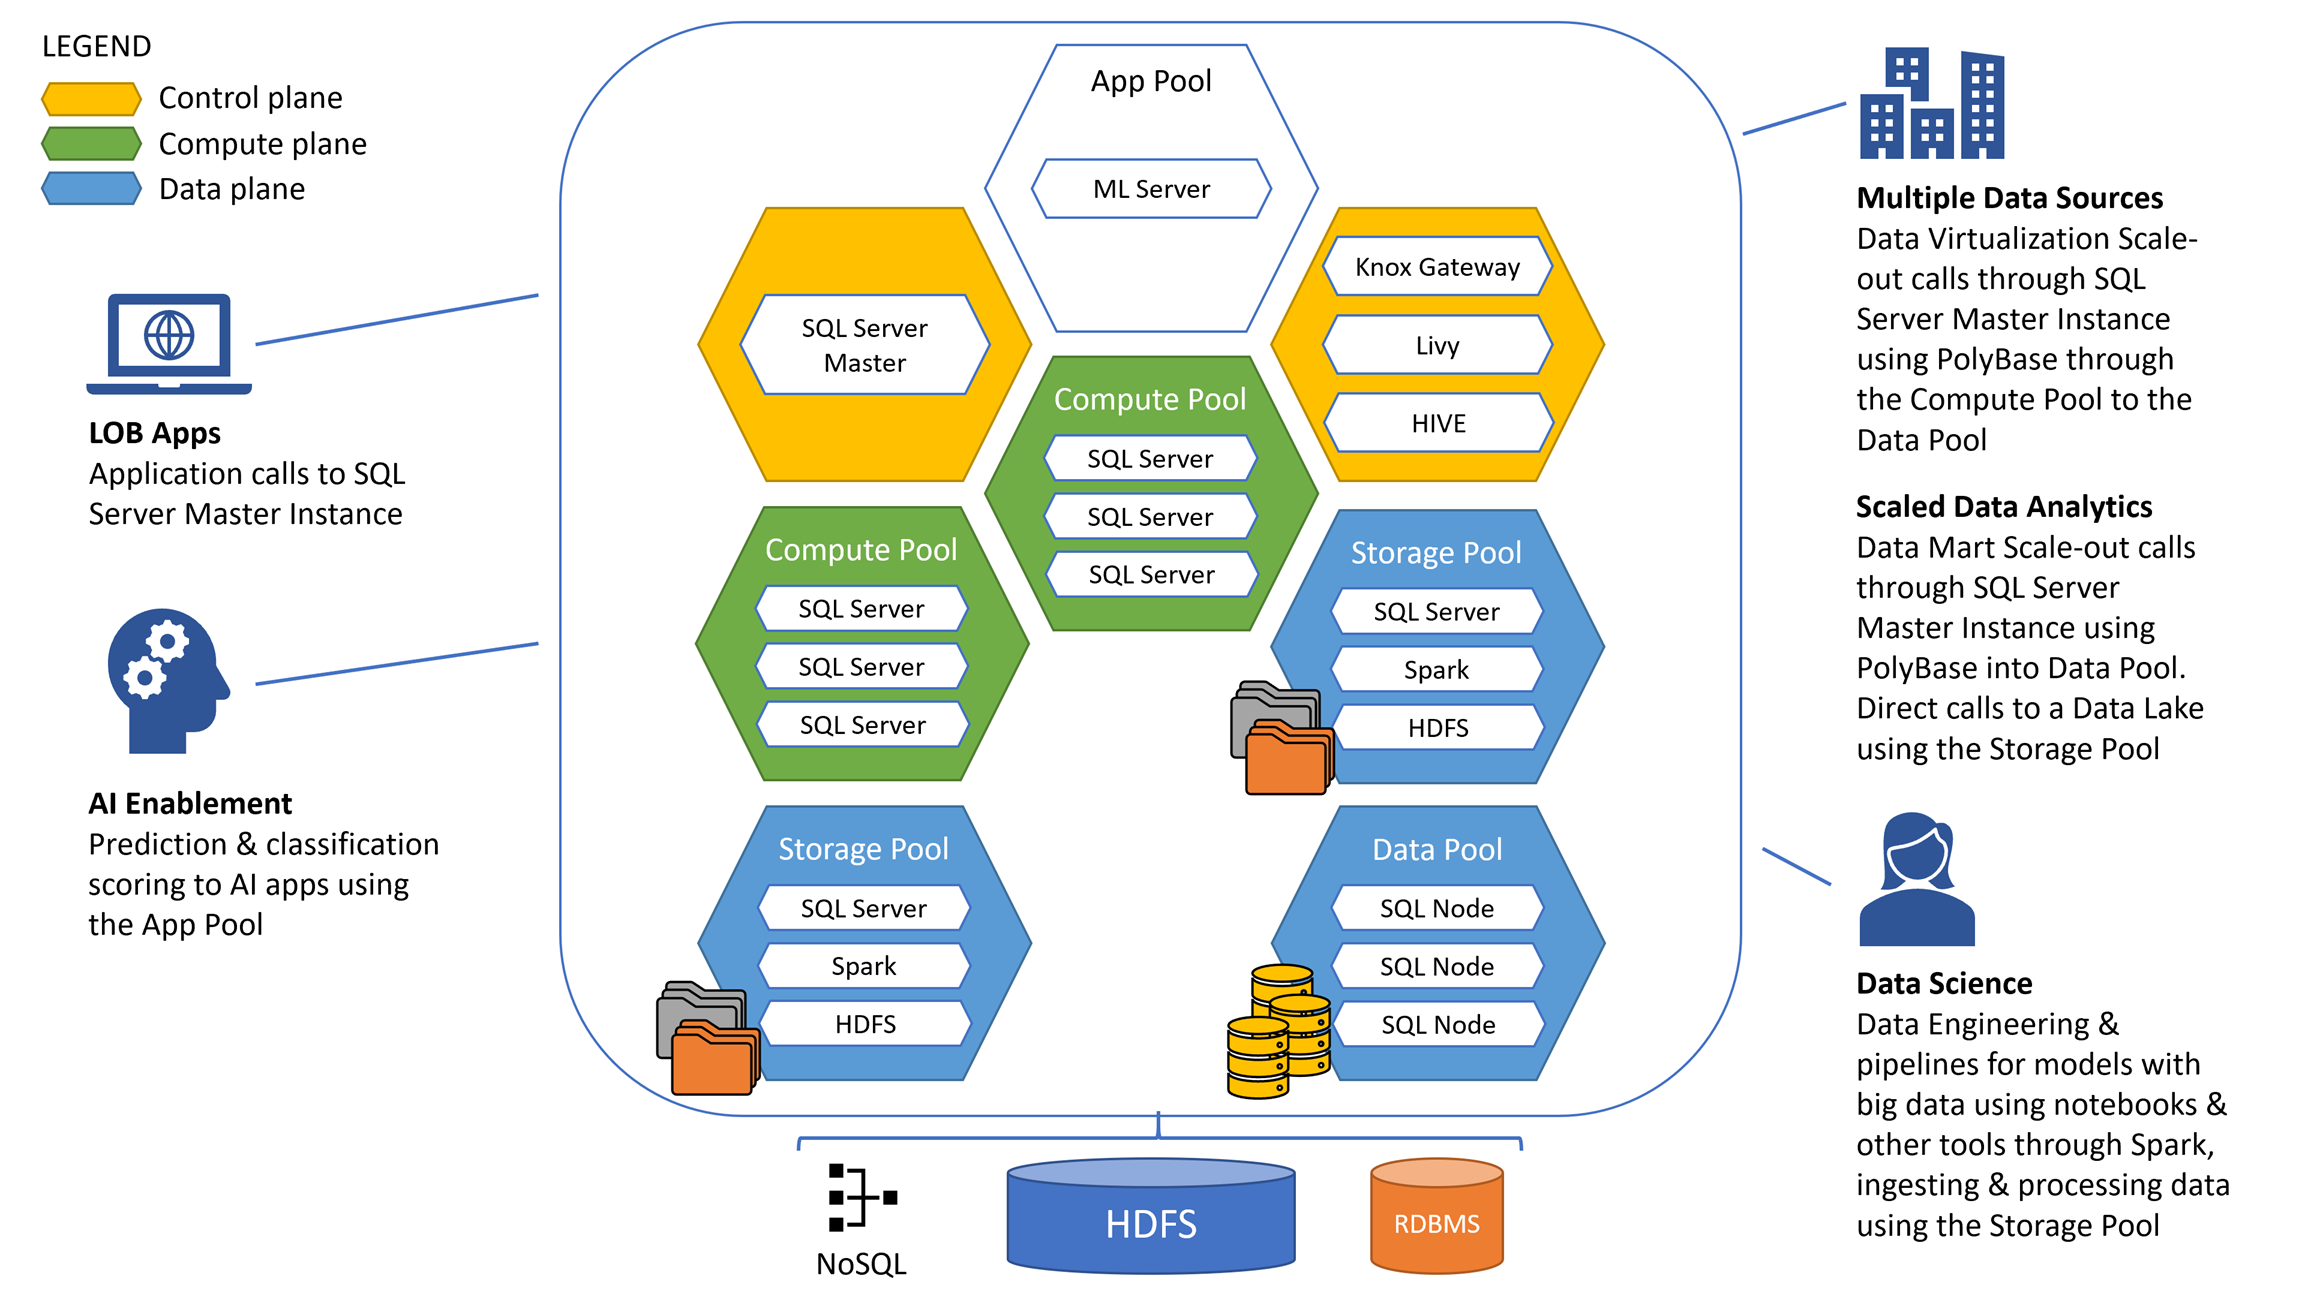
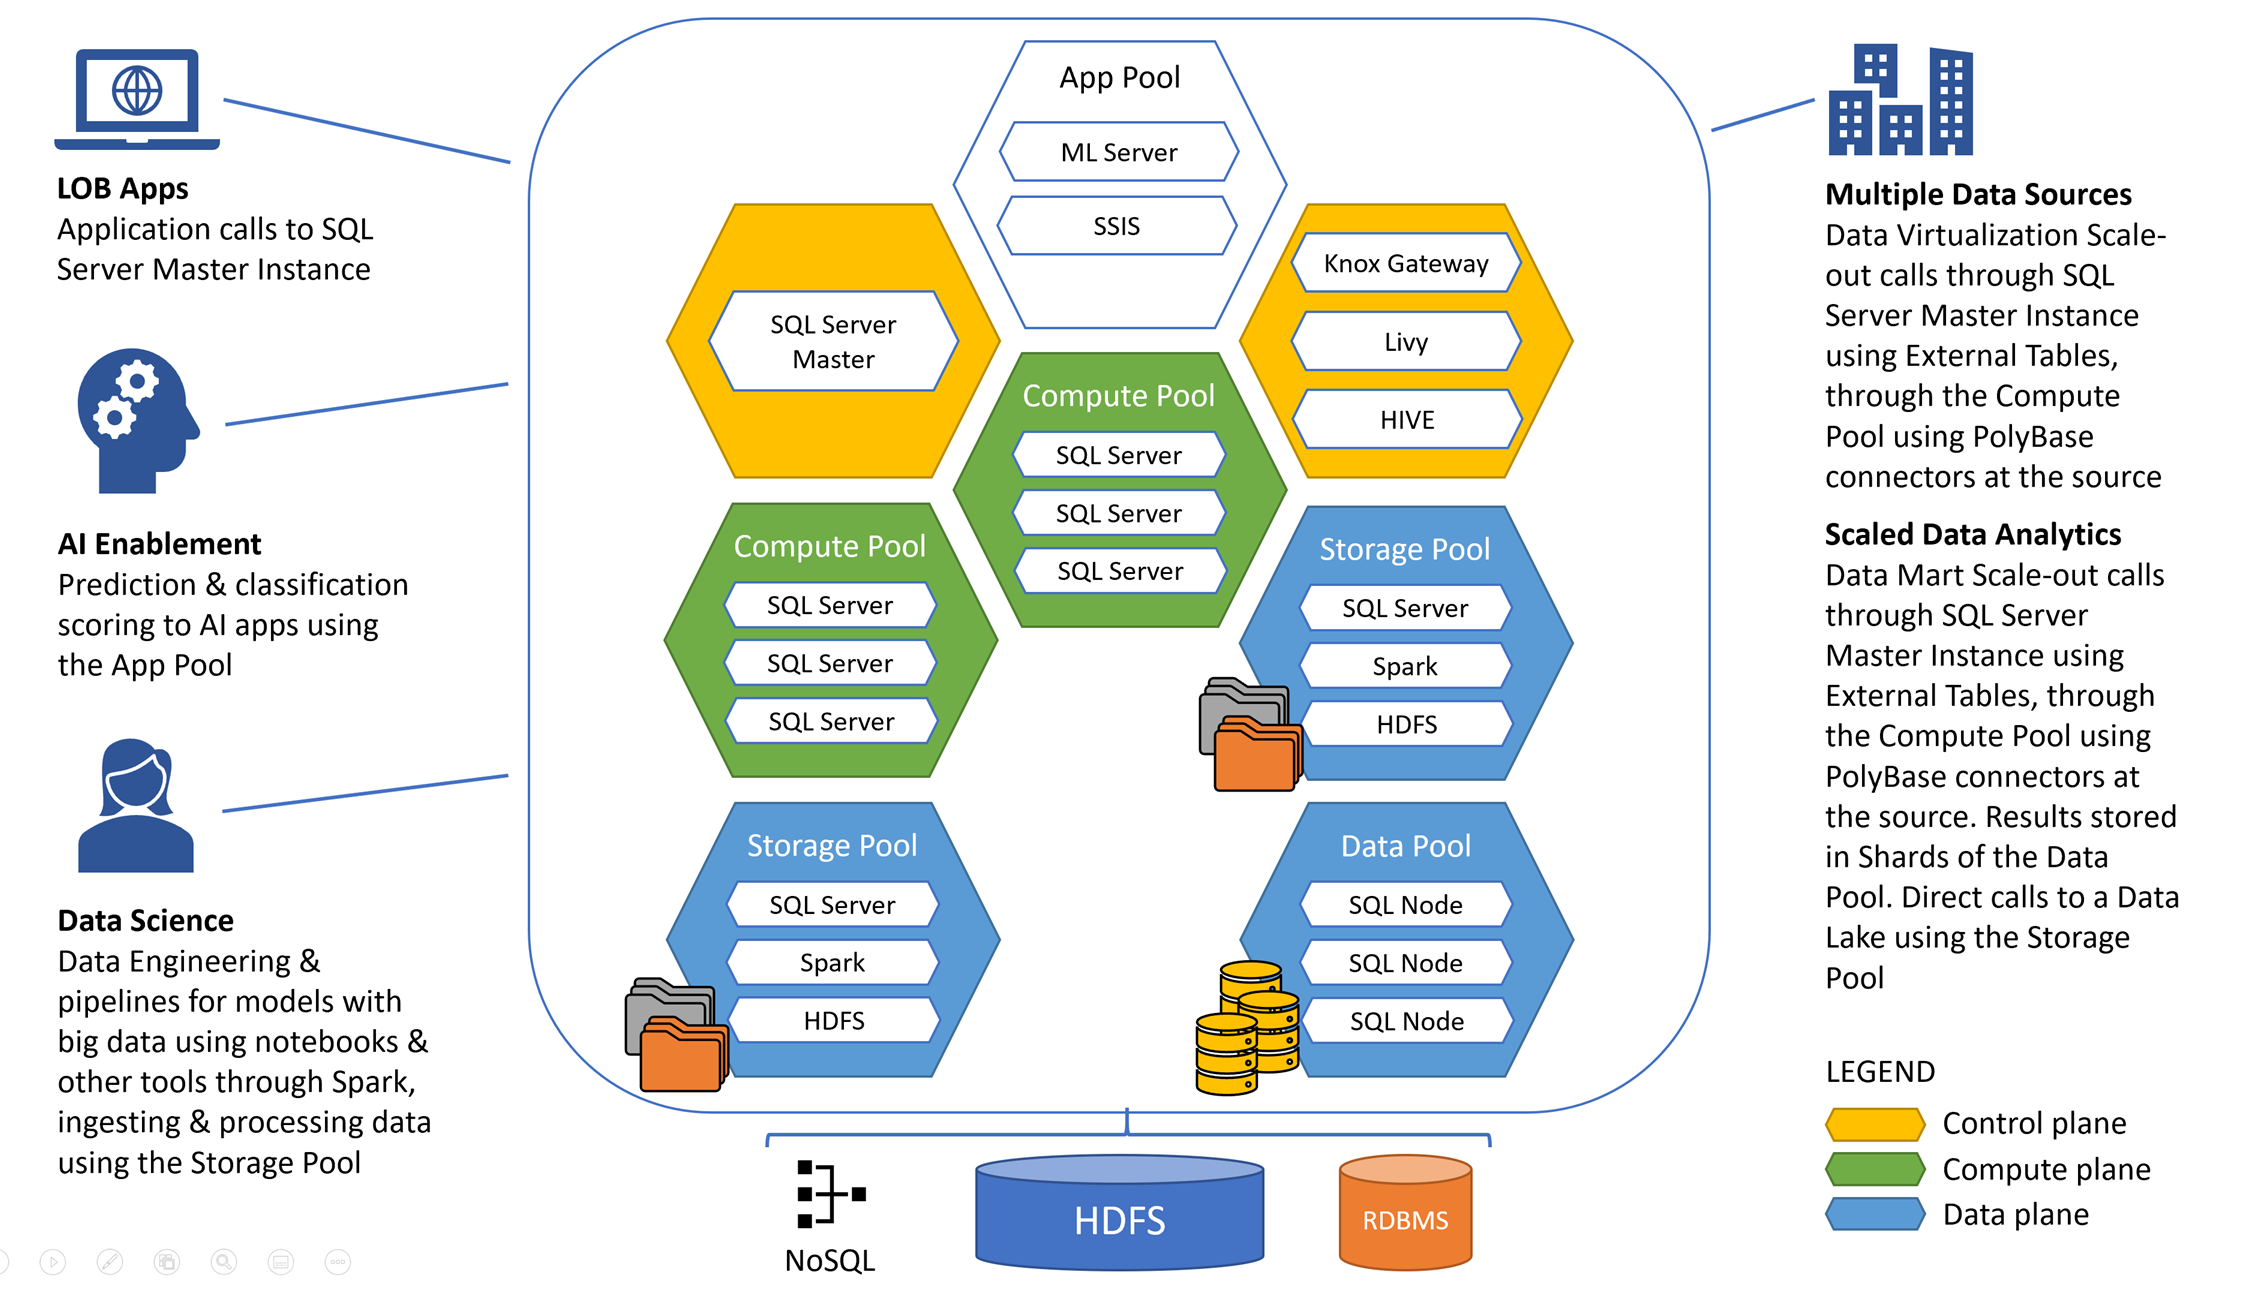
Added additional questions and fleshed out information in WDS

diff --git a/Whiteboard design session/WDS trainer guide - Modernizing data analytics with SQL Server 2019.md b/Whiteboard design session/WDS trainer guide - Modernizing data analytics with SQL Server 2019.md
@@ -220,7 +220,7 @@ As they added new e-commerce channels to expand the customer base, consumer dema
 
 ![The expansion to omni-channel causes issues.](media/omni-channel.png 'Omni-channel causes issues like siloed insights')
 
-WWI has considered using a traditional data warehouse to join data from their disparate systems to gain insights in one location. Their biggest concerns with this approach are the amount of time to put such a system in place and properly maintain it, but even more so, having an inherent delay between when new data is written to the source system and when that data is moved into the data warehouse. They would like to have access to data from all systems while it is fresh, but do so in a way that is highly scalable and able to support complex joins between the external sources and internal SQL server tables as well.
+WWI has considered using a traditional data warehouse to join data from their disparate systems to gain insights in one location. Their biggest concerns with this approach are the amount of time to put such a system in place and properly maintain it, but even more so, having an inherent delay between when new data is written to the source system and when that data is moved into the data warehouse. They would like to have access to data from all systems while it is fresh, but do so in a way that is highly scalable and able to support complex joins between the external sources and internal SQL server tables as well. They also want to be able to use their existing codebase while enabling a flexible scale-out architecture.
 
 However, there are times when they would like to move data into storage to provide denormalized and aggregated representations of their data for reporting purposes. In other terms, a data mart. However, they would like to also take advantage of distributed storage of this data, which would include sharding the data across multiple databases. They are concerned about the level of effort to shard their data, access that data, and maintain the distributed system.
 
@@ -296,6 +296,8 @@ _Modern data warehouse_
 
 4. What methods can be used to ensure the best performance when querying data?
 
+5. How will the data systems scale to reach more consumers? Can this be done while minimizing code changes?
+
 _Deep analytics and AI_
 
 1. What would be used to solve the AI requirements?
@@ -357,10 +359,15 @@ Directions: Tables reconvene with the larger group to hear the facilitator/SME s
 | **Description**                         |                                                                 **Links**                                                                 |
 | What are SQL Server big data clusters?  |             <https://docs.microsoft.com/en-us/sql/big-data-cluster/big-data-cluster-overview?view=sqlallproducts-allversions>             |
 | How to use notebooks in SQL Server 2019 |                     <https://docs.microsoft.com/en-us/sql/big-data-cluster/notebooks-guidance?view=sql-server-ver15>                      |
+| SQL Server 2019 Master Instance         |              <https://docs.microsoft.com/en-us/sql/big-data-cluster/concept-master-instance?view=sqlallproducts-allversions>              |
+| SQL Server extensibility framework      |                             <https://docs.microsoft.com/en-us/sql/advanced-analytics/?view=sql-server-ver15>                              |
+| PolyBase                                |                 <https://docs.microsoft.com/en-us/sql/relational-databases/polybase/polybase-guide?view=sql-server-ver15>                 |
 | Dynamic Data Masking                    |                         <https://docs.microsoft.com/en-us/sql/relational-databases/security/dynamic-data-masking>                         |
 | Row-Level Security                      |                          <https://docs.microsoft.com/en-us/sql/relational-databases/security/row-level-security>                          |
 | Always Encrypted with Secure Enclaves   | <https://docs.microsoft.com/en-us/sql/relational-databases/security/encryption/always-encrypted-enclaves?view=sqlallproducts-allversions> |
 | SQL Data Discovery and Classification   |     <https://docs.microsoft.com/en-us/sql/relational-databases/security/sql-data-discovery-and-classification?view=sql-server-ver15>      |
+| Hadoop File System (HDFS)               |                                        <https://kubernetes.io/docs/concepts/overview/components/>                                         |
+| Apache Spark                            |                                                        <https://spark.apache.org/>                                                        |
 
 # Modernizing data analytics with SQL Server 2019 whiteboard design session trainer guide
 
@@ -406,17 +413,19 @@ Directions: Tables reconvene with the larger group to hear the facilitator/SME s
 
 ## Preferred target audience
 
-\[insert your custom workshop content here . . . \]
+Charlene Mathis, Chief Information Officer (CIO), Wide World Importers
+
+The primary audience is the business decision makers and technology decision makers. From the case study scenario, this includes Charlene Mathis, CIO for Wide World Importers. Usually, we talk to the database administrators and infrastructure managers who report to the chief information officers (CIOs). We also speak with application sponsors (like a vice president [VP] line of business [LOB], or chief marketing officer [CMO]), or to those who represent the business unit IT or developers that report to application sponsors.
 
 ## Preferred solution
-
-\[insert your custom workshop content here . . . \]
 
 _High-level architecture_
 
 1. Diagram your initial vision for the architecture of the solution.
 
    ![Preferred solution.](../Media/preferred-solution.png 'Preferred solution diagram')
+
+   In SQL Server big data clusters, Kubernetes is responsible for the state of the SQL Server big data clusters; Kubernetes builds and configures the cluster nodes, assigns pods to nodes, and monitors the health of the cluster.
 
    SQL Server big data clusters architecture
 
@@ -438,25 +447,62 @@ _Modern data warehouse_
 
    The image to the left represents traditional data movement using ETL. Compare that to data virtualization, which does not require data movement and provides a unified layer over top of existing data sources.
 
-   **SQL Server 2019 Data Lake**
+   **SQL Server Master Instance**
 
-   SQL Server 2019 Big Data Clusters include a scalable HDFS storage pool. This pool can be used to store big data, potentially ingested from multiple external sources. This data can be either structured or unstructured data. once the big data is stored in HDFS in the big data cluster, you can analyze and query the data and combine it with your relational data.
+   The SQL Server Master Instance is an installation of SQL Server 2019 in a Pod on a Node in the Kubernetes cluster. This instance behaves the same as a single server instance installed on traditional physical hardware or in a Virtual Machine. You access it in the same way and use it for high-value, OLTP, OLAP and other types of workloads, and it contains all of the standard SQL Server system databases.
+
+   The SQL Server Master Instance is part of the control plane of the big data cluster, and as such, performs duties unique to the cluster. This includes storing metadata about the PolyBase external data sources and external tables defined in user databases when using data virtualization. In addition, the SQL master instance stores a data plane shard map, HDFS table metadata, and details of external tables that provide access to the cluster data plane.
+
+   **SQL Server 2019 Data Lake (Storage Pool)**
+
+   SQL Server 2019 Big Data Clusters include a storage pool that consists of storage nodes comprised of SQL Server on Linux, Spark, and HDFS. All the storage nodes in a SQL big data cluster are members of a scalable HDFS cluster. These components of the storage pool can be combined to create a data lake to store big data, potentially ingested from multiple, disparate external sources. This data can be either structured or unstructured data. Once the big data is stored in HDFS in the big data cluster, you can analyze and query the data and combine it with your relational data.
+
+   HDFS also provides data persistency, as HDFS data is spread across all the storage nodes in the SQL big data cluster. However, you can add external HDFS data sources to the HDFS cluster through tiering. With tiering, applications can seamlessly access data in a variety of external stores as though the data resides in the local HDFS. This allows you to interact with the files in Azure Data Lake Store Gen2 or Amazon S3 as if they were local files. Both options allow you to mount the data store using storage keys. However, with Azure Data Lake Store Gen 2, you can either use an Azure Storage access key or an Azure Active Directory User Account to gain permission to the files.
 
    ![Diagram of SQL Server 2019 Data Lake](media/sql-server-2019-data-lake.png)
 
-2. How will you enable a single data query to work across multiple, disparate data sources with the ability to join internal SQL server tables at scale?
+   **Data Pool**
 
-   With tiering, applications can seamlessly access data in a variety of external stores as though the data resides in the local HDFS. This allows you to interact with the files in Azure Data Lake Store Gen2 as if they were local files. You can either use an Azure Storage access key or an Azure Active Directory User Account to gain permission to the files.
+   This pool provides persistent SQL Server storage for the cluster through one or more SQL Server data pool instances. This pool is used to ingest data from SQL queries or Apache Spark jobs. When you have large data sets, you typically increase performance in one of two ways. Either by creating indexes on the data set, or by sharding the data across multiple instances, reducing the amount of data stored within each location. Since indexes can become quite large, causing both performance and storage impact when creating and updating the indexes, sharding is generally the preferred method for improving performance in these scenarios. However, sharding can be difficult to configure and manage. SQL Server 2019 handles this for you within the Data Pool, enabling you to continue querying your data as if the entire data set is stored in the same location.
 
-3. How will you provide a data mart to store denormalized and aggregated data while taking advantage of distributed storage?
+   **Compute Pool**
 
-4. What methods can be used to ensure the best performance when querying data?
+   The Compute Pool holds Kubernetes Nodes containing one or more Pods running SQL Server instances used for distributed processing, under the direction of the SQL Server Master Instance. It makes the calls out to the PolyBase connectors for a distributed Compute layer of the BDC.
+
+   **App Pool**
+
+   The App Pool is a set of Pods within a [Kubernetes Node](https://kubernetes.io/docs/concepts/architecture/nodes/) that hold multiple types of end-points into the system. SQL Server Integration Services lives in the App Pool, and other Job systems are possible. You could start a long-running job (such as IoT streaming) or Machine Learning (ML) endpoints used for scoring a prediction or returning a classification. The App Pool can be scaled out according to demand by adding or removing instances as needed.
+
+2. How will you enable a single data query to work across multiple, disparate data sources with the ability to join internal SQL Server tables at scale?
+
+   As detailed in the previous answer, data virtualization allows queries across relational and non-relational data without movement or replication. The enhanced PolyBase feature of SQL Server 2019 is able to connect to Hadoop clusters, Oracle, Teradata, MongoDB, HDFS (for flat files), and more. WWI would create external tables on one or more internal SQL Server 2019 databases, using data virtualization tools in Azure Data Studio or through T-SQL scripts. By doing this, they will create a single "virtual" data layer. The data remains in these external sources in their original location and format, removing the need for data movement. Thus, the delays inherent with extract, transform, load (ETL) are removed. These remote systems can hold extremely large sets of data. Since most queries will return a subset of that data, the results are all that are sent back over the network.
+
+   The queries for external tables hosted by remote systems, such as external relational databases, are "pushed down" (executed) by that remote system. For external tables pointing to files stored in HDFS, the SQL Server engine can natively read these by using SQL Server instances collocated on each of the HDFS data nodes within the Storage Pool. These nodes can filter and aggregate data locally in parallel across all of the HDFS data notes. The cross-partition aggregation and shuffling of the filtered query results are distributed to the Compute Pool, which contains Pods running SQL Server instances that work together. The distributed nature of these pools and their ability to work in parallel allow these queries to be run at scale.
+
+   Once these virtual tables have been added, WWI can join them to the internal SQL Server tables in a single query. Here is an example:
+
+   ```sql
+   SELECT i.i_item_sk AS ItemID, i.i_item_desc AS Item, c.c_first_name AS FirstName,
+   c.c_last_name AS LastName, s.QuantityOnHand, r.review AS Review, r.date_added AS DateReviewed
+   FROM dbo.item as i
+   JOIN dbo.Reviews AS r ON i.i_item_sk = r.product_id
+   JOIN dbo.customer AS c ON c.c_customer_sk = r.customer_id
+   JOIN dbo.stockitemholdings AS s ON i.i_item_sk = s.StockItemID
+   ```
+
+   In the example above, the `item` and `customer` tables are both internal SQL Server 2019 tables. The `Reviews` table is an external table located in an Azure SQL Database instance, and the `stockitemholdings` table points to CSV files hosted in an HDFS data store.
+
+3. How will you provide a data mart to store denormalized and aggregated data while taking advantage of distributed storage? Would you suggest using a data warehouse instead?
+
+4) What methods can be used to ensure the best performance when querying data?
 
    The [Intelligent Query Processing](https://docs.microsoft.com/en-us/sql/relational-databases/performance/intelligent-query-processing?view=sql-server-ver15) (QP) features of SQL Server 2019 and Azure SQL Database can be sued to improve the performance of existing workloads with minimal work. The key to enabling these features in SQL Server 2019 is to set the [database compatibility level](https://docs.microsoft.com/en-us/sql/t-sql/statements/alter-database-transact-sql-compatibility-level?view=sql-server-ver15) to `150`.
 
    Performance of PolyBase queries in SQL Server 2019 big data clusters can be boosted further by distributing the cross-partition aggregation and shuffling of the filtered query results to “compute pools” comprised of multiple SQL Server instances that work together (this is similar to a PolyBase scale-out group).
 
    When you combine the enhanced PolyBase connectors with SQL Server 2019 big data clusters data pools, data from external data sources can be partitioned and cached across all the SQL Server instances in a data pool, creating a “scale-out data mart”. There can be more than one scale-out data mart in a given data pool, and a data mart can combine data from multiple external data sources and tables, making it easy to integrate and cache combined data sets from multiple external sources.
+
+5) How will the data systems scale to reach more consumers? Can this be done while minimizing code changes?
 
 _Deep analytics and AI_
 
